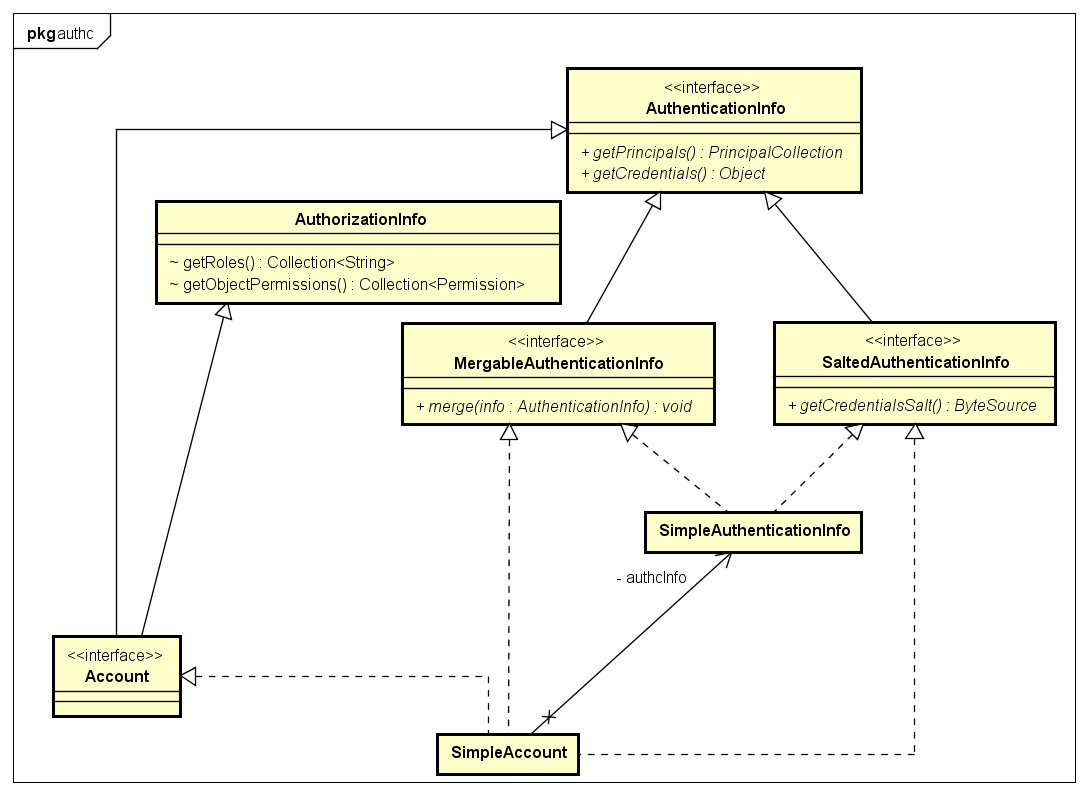
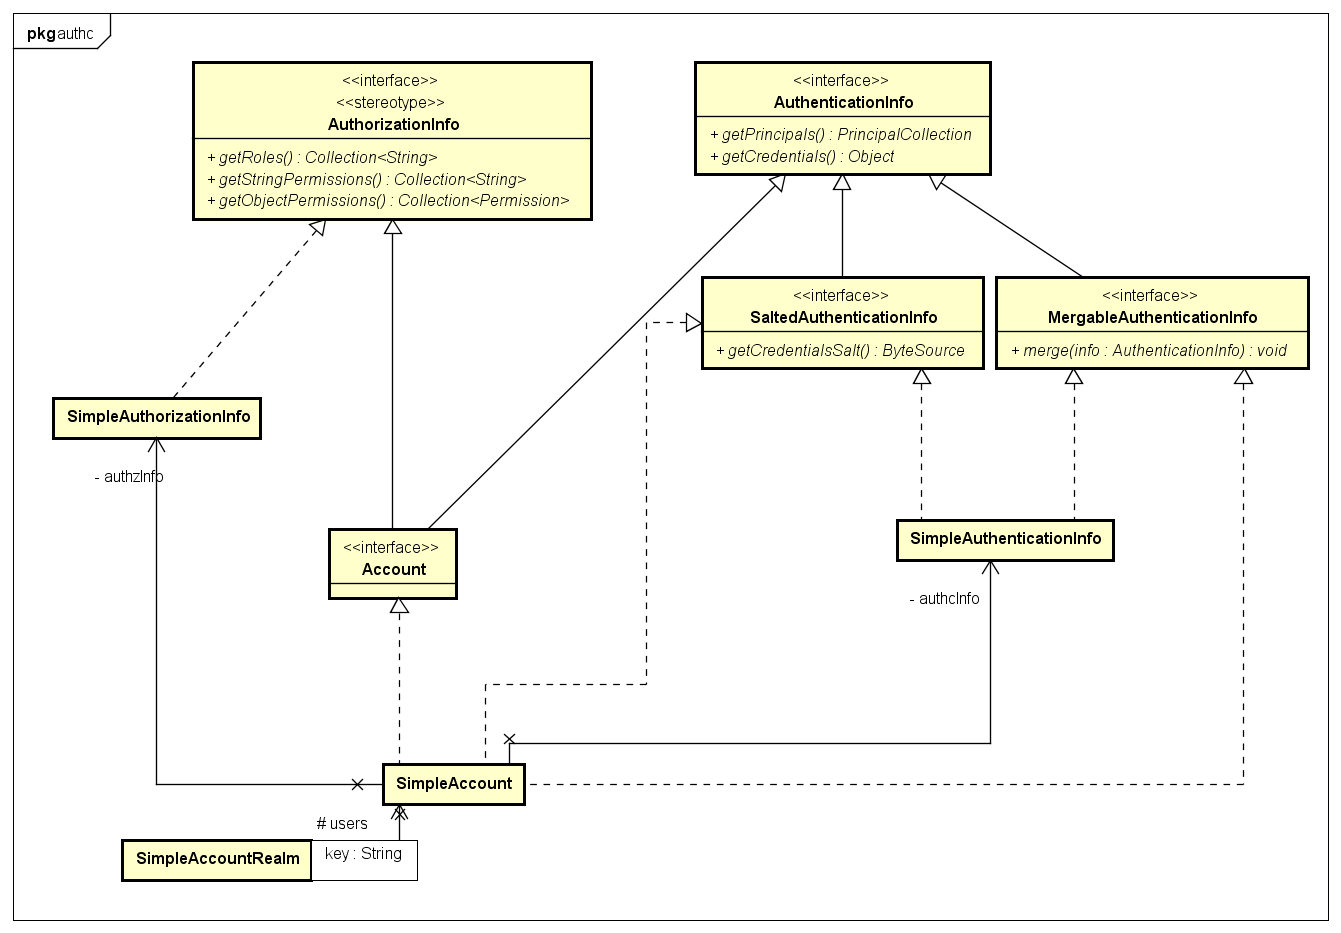
write doc

diff --git a/README.md b/README.md
@@ -28,11 +28,11 @@ Object getPrincipal();
 // 密码等凭证
 Object getCredentials();
 ```
-**1 (extends)** *`HostAuthenticationToken`*获取用户主机信息(IP)，同`ServletRequest.getRemoteHost()`  
+**1 (extends)** *`HostAuthenticationToken`* 获取用户主机信息(IP)，同`ServletRequest.getRemoteHost()`  
 ```java
 String getHost();
 ```
-**2 (extends)** *`RememberMeAuthenticationToken`*是否跨session保存用户标识信息
+**2 (extends)** *`RememberMeAuthenticationToken`* 是否跨session保存用户标识信息
 ```java
 boolean isRememberMe();
 ```
@@ -58,7 +58,7 @@ void merge(AuthenticationInfo info);
 
 **1.1/2.1 (implements)** `SimpleAuthenticationInfo` 实现了上面两者  
 
-**3 (implements)** `SimpleAccount` 融合了`AuthenticationInfo`和`AuthorizationInfo`, 静态代理了`SimpleAuthenticationInfo`的功能，后面详解
+**3 (implements)** *`Account`* 融合了`AuthenticationInfo`和`AuthorizationInfo`, `SimpleAccount`是其默认实现，通过静态代理`SimpleAuthenticationInfo`、`SimpleAuthorizationInfo`，既提供身份鉴别功能有能提供鉴权功能
 ```java
 public class SimpleAccount implements Account, MergableAuthenticationInfo, SaltedAuthenticationInfo, Serializable {
     private SimpleAuthenticationInfo authcInfo;
@@ -90,7 +90,7 @@ public class SimpleAccount implements Account, MergableAuthenticationInfo, Salte
 ![AuthenticationInfoHierarchy](resources/images/AuthenticationInfoHierarchy.png)
 
 ### Realm接口
-*`Realm`*是一个系统安全组件，可以访问特定系统的安全部件，包括用户、角色、权限等。*`Realm`*可以在Authentication和Ahthorization流程中工作。  
+*`Realm`* 是一个系统安全组件，可以访问特定系统的安全部件，包括用户、角色、权限等。*`Realm`* 可以在Authentication和Ahthorization流程中工作。  
 ```java
 // 全局唯一的名称
 String getName();
